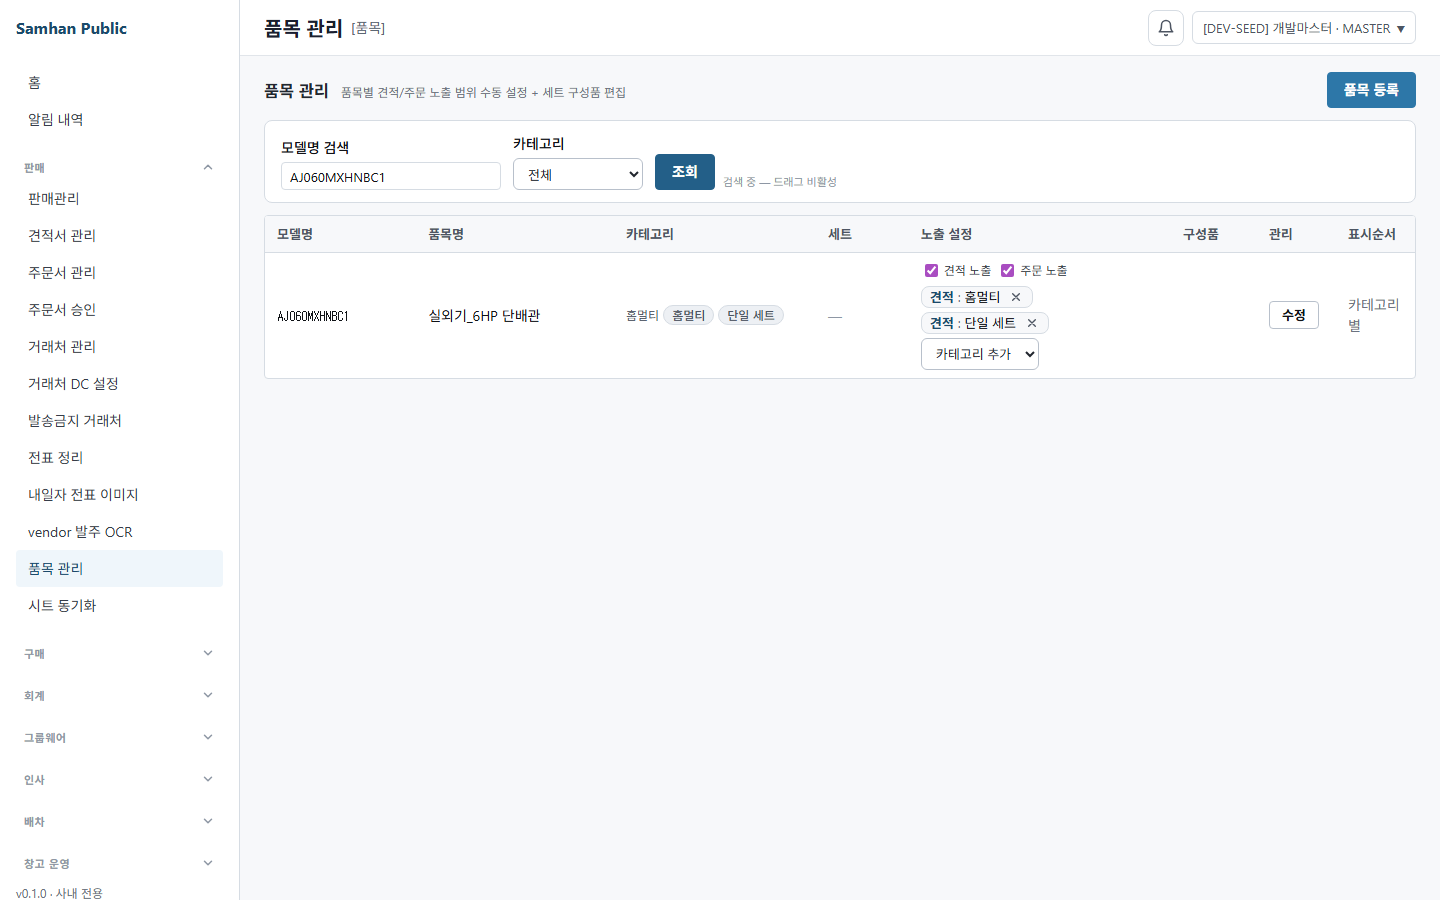
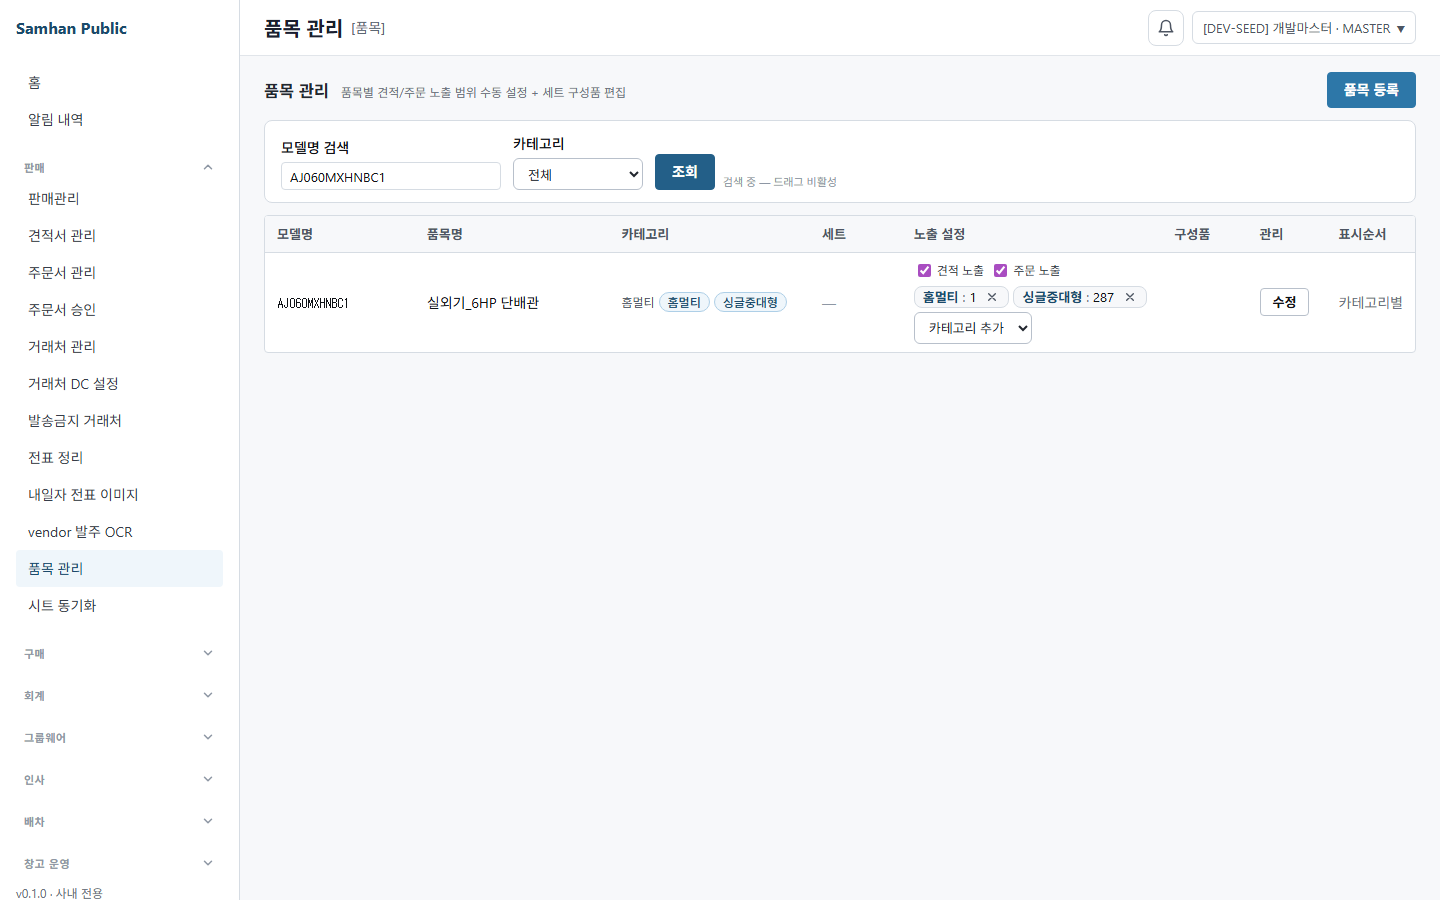
docs(product): #494 dev-report + ROADMAP + overview + 싱글중대형 실QA 재캡처
- dev-report 신규(M:N 모델 product_estimate_exposure V18·BE/FE·싱글중대형 라벨·dual 리뷰·실QA·D-PCE-03~06·D-LABEL-01)
- ROADMAP #494 항목 + overview nav-badge #494 갱신
- docs/qa/product-multi-category-exposure 3컷 싱글중대형 라벨 실서버 재캡처(홈멀티+싱글중대형 칩, dev_master, mock OFF)

diff --git a/docs/samhan-public-overview.html b/docs/samhan-public-overview.html
@@ -427,7 +427,8 @@ body {
     <a class="nav-link" href="#phases">진행 현황</a>
   </div>
   <div class="nav-right">
-    <span class="nav-badge">PR #480 · §7 전역 협업 에픽 완결 — 그룹웨어 결재(ApprovalLine): 결재 FE 신규(목록/상세)+수정완료(제목/내용)+결재유형 템플릿 빌더(동적 필드)+통합 문서 참조 첨부(출고/입고전표·분개장·세금계산서·거래명세서·거래처원장)+결재자 사원검색 칩+결재선 실명(개발책임자 — 다중 추가 입력은 캡슐(칩) 통일, 품목 표 제외) / page-code groupware.approvals / 라이브 QA가 SAMHAN_USER_SERVICE_URL 운영파손 단독 적발 / 슬라이스 0~4(입출고전표·회계·주문·견적·배차 #474~#478) 후 6번째 완결 · Opus 5-agent+Codex cross-check 리뷰 수렴. presence=후속</span>
+    <span class="nav-badge">PR #494 · 품목 다중 카테고리 노출 M:N — 한 단일 품목을 여러 견적 카테고리(홈멀티/싱글중대형/상업멀티/구형)에 중복 노출 + 카테고리별 표시순서(product_estimate_exposure V18 단일원천, products.estimate_category/display_order deprecated) / desktop 다중칩(TagChip) UI / SINGLE_SET 사용자 라벨 "싱글중대형" 전역 통일(enum 식별자·시트 탭 매처·수식 보존) / Opus 5-agent+Codex 교차 리뷰 + 실서버 M:N 다중노출 실증·데스크톱 실QA. estimate-app 무변경</span>
+    <span class="nav-badge" hidden>PR #480 · §7 전역 협업 에픽 완결 — 그룹웨어 결재(ApprovalLine): 결재 FE 신규(목록/상세)+수정완료(제목/내용)+결재유형 템플릿 빌더(동적 필드)+통합 문서 참조 첨부(출고/입고전표·분개장·세금계산서·거래명세서·거래처원장)+결재자 사원검색 칩+결재선 실명(개발책임자 — 다중 추가 입력은 캡슐(칩) 통일, 품목 표 제외) / page-code groupware.approvals / 라이브 QA가 SAMHAN_USER_SERVICE_URL 운영파손 단독 적발 / 슬라이스 0~4(입출고전표·회계·주문·견적·배차 #474~#478) 후 6번째 완결 · Opus 5-agent+Codex cross-check 리뷰 수렴. presence=후속</span>
   </div>
 </nav>
 

diff --git a/docs/dev-reports/2026-06-16-product-multi-category-exposure.md b/docs/dev-reports/2026-06-16-product-multi-category-exposure.md
@@ -1,0 +1,67 @@
+# 품목 다중 카테고리 노출 (M:N) + 카테고리별 표시순서 — 에픽 #18 슬1 (PR #494)
+
+> 2026-06-16. 브랜치 `feat/product-multi-category-exposure`. 워크플로우 = Opus 4.8 계획/조기PR → Codex 개발 → Opus 5-agent → Codex 5-agent → PM 종합 → 머지([[temp-multimodel-workflow]]).
+> spec: `docs/superpowers/specs/2026-06-16-product-multi-category-exposure.md`.
+
+## 1. 목표
+
+한 단일 품목(판넬/리모컨/유연호스 등)을 여러 견적 카테고리(홈멀티/싱글중대형/상업멀티/구형)에 **중복 노출** + **카테고리별 독립 표시순서**(순서 변경 시 같은 카테고리 내 일괄 자동조정). 기존 `products.estimate_category`(단일 컬럼)·`display_order`(전역 단일)로는 1품목=1카테고리만 가능했던 한계 해소.
+
+## 2. 모델 — M:N 단일 원천
+
+**신규 `product_estimate_exposure`**(V18) = 품목 견적 노출의 단일 진실원.
+
+| 컬럼 | |
+|---|---|
+| id UUID PK / product_id FK / estimate_category VARCHAR(20) / display_order INTEGER | + BaseEntity 7 audit |
+| UNIQUE `(product_id, estimate_category) WHERE is_deleted=false` | 품목×카테고리 1행 |
+| INDEX `(estimate_category, display_order) WHERE is_deleted=false` | 카테고리별 정렬 |
+| CHECK `chk_pee_category` | enum 5값 |
+
+- **백필**: 기존 `products.estimate_category`→M:N 1행 멱등 이식(NOT EXISTS, `gen_random_uuid()`/pgcrypto).
+- `products.estimate_category`·`display_order` = **deprecated 보존**(읽지·쓰지 않음, 롤백 안전, dual-write 금지 — [[spec-sync-full-db-distribution-check]] 교훈). 후속 cleanup 마이그에서 drop 예정.
+- `usageScope` = 품목 레벨 유지. ESTIMATE/BOTH 일 때만 노출 의미. M:N 행 0 = 미노출.
+
+## 3. BE (product-service)
+
+- `ProductEstimateExposure` 엔티티(raw productId UUID, 양방향 컬렉션 회피 — cascade/lock 부작용 차단 [[self-invocation-transactional-bypass]]) + repository.
+- `findExposedCatalog`(theta-join) + `searchByUsageScope`(admin 리스트, native LEFT JOIN) **둘 다 M:N** — estimate_category 필터 + `e.display_order ASC NULLS LAST, model_code` 카테고리별 정렬. → SINGLE_PART(판넬/부품)도 여러 견적 카테고리 노출 가능.
+- `PATCH /usage`: `UpdateProductUsageRequest.estimateCategories: List` replace(비-견적 scope→전체 soft-delete / 미포함→soft-delete / 신규→maxOrder+1). `markUsageManual(usageScope)`(exposure 동기화는 서비스).
+- `ProductSheetSyncService`: exposure **additive upsert**(삭제 절대 안 함) + `usageScopeManual` skip + **명시 save**(syncTab self-invocation 트랜잭션 부재 detached flush 보장). `products.estimate_category`/`display_order` 쓰기 중단.
+- `PUT /display-orders`: `DisplayOrderRequest.estimateCategory` 추가, 동일 카테고리 강제(D-PCE-02 축 교체) + 요청 순서대로 1..N 재번호(exposure 행) + **대상 카테고리 전체 활성 노출 미포함 시 400**(부분 재번호 붕괴 방지).
+- soft-deleted product 의 exposure 동반 soft-delete + `maxDisplayOrder` 활성 product 한정.
+- `ProductCatalogResponse.estimateCategories[{category,displayOrder}]` + deprecated 단일 파생.
+- `EstimateCatalogInternalController.products` M:N 직접 조회 → **estimate-app 무변경**(카테고리별 별도 HTTP 자동 수용). `/components`(세트 전개)는 부모 productCategory 조회 유지 — 견적 노출과 직교(구성품 노출 무관 포함).
+
+## 4. FE (desktop ProductCatalogPage)
+
+- ToggleCell: 단일 select → **design-system TagChip 다중 칩**(label=카테고리명, value=카테고리별 순서) + '카테고리 추가' Select([[chip-ui-multi-input]]). PATCH `estimateCategories` 배열. all-selected 시 add-Select 숨김.
+- `handleSaveOrder`: order 항목에 `estimateCategory`(committedCategory) — 카테고리별 1..N(전 페이지 수집).
+- 카테고리 컬럼 다중 Badge(`brand` — productCategory 평문과 구분), 표시순서 컬럼 = 선택 카테고리 exposure 순서(미선택 시 "카테고리별" title 툴팁).
+- `ProductCatalogPageModel.ts`(+vitest) 순수 헬퍼(normalizeEstimateCategoryExposures/estimateCategoryValues/exposureDisplayOrder/buildCategoryDisplayOrderInputs). estimateCategories=[] 가 legacy 로 fallback 하던 버그 수정.
+- mock: estimateCategories 다중노출 fixture + usage 배열 replace + display-orders estimateCategory 검증. 🪤 **slip 라인 BUNDLE usageScope=BOTH 회귀가드 보존**(bundle-set-options, 슬립 검색 별도 데이터셋).
+
+## 5. 카테고리 라벨 정정 — SINGLE_SET = "싱글중대형" (개발책임자)
+
+- SINGLE_SET 사용자 노출 라벨 "싱글세트/싱글 세트/단일 세트" → **"싱글중대형"** 전역 통일(27파일/97 spot: design-system·desktop·order-app·mobile·estimate-app UI·인쇄). 사유 = 세트 아닌 단일 품목도 포함.
+- **enum 식별자 SINGLE_SET + 시트 탭 매처("싱글 세트", `_단가인상`, range-map, code.js 수식, legacy GAS SINGLE_NAME) 보존** — 변경 시 sync/단가계산 파손. 계약 가드(full-menu-contract·sp-07) + calc-fidelity 로 보존 검증. [[item-exposure-and-menu-5cat]].
+
+## 6. 워크플로우 / 리뷰 / QA
+
+- **Opus 5-agent**(BE/FE/Designer/DevOps/QA): BE P1(sync save 누락)·P2(create scope) fix, Designer P2(칩 접두 중복)·P3, DevOps P2(reorder IT 공백). FE 0 blocking. → Opus 직접 fix.
+- **Codex 5-agent 교차**: Opus fix 무회귀 확인 + reorder IT(비-@Transactional)·estimateCategories=[] fix·orphan exposure·display-orders 가드 + Designer P3·dead method. → Codex 직접 fix.
+- **실서버 QA**(게이트웨이 :8080 + product-service V18): AJ060MXHNBC1 단일품목 홈멀티+싱글중대형 2카테고리 동시 노출 실증(API) + 데스크톱 UI 다중칩 실캡처(`docs/qa/product-multi-category-exposure/`).
+- **검증**: product-service test green, partner-order test green, estimate-app calc-fidelity 77, FE typecheck/vitest, playwright 18/18(product-catalog 11 + 시트매처 계약가드).
+
+## 7. 결정 기록
+
+- **D-PCE-03**: 견적 노출 = M:N(`product_estimate_exposure`) 단일 원천. products.estimate_category/display_order deprecated.
+- **D-PCE-04**: sync exposure = additive only(삭제 금지) + usageScopeManual skip. 미노출 전환은 수동 PATCH /usage.
+- **D-PCE-05**: display-orders = 대상 카테고리 전체 활성 노출 포함 요청만(부분 1..N 붕괴 방지).
+- **D-PCE-06**: 세트 노출 + 구성품 미노출 → 구성품은 세트 전개 시 노출 무관 포함(/components usageScope 미필터, 의도). 미노출=단독 판매 여부만.
+- **D-LABEL-01**: SINGLE_SET 라벨 = "싱글중대형"(식별자·시트매처 보존, 라벨만).
+
+## 8. 후속
+
+- products.estimate_category/display_order cleanup 마이그(컬럼 drop) — 별도.
+- 멀티(홈멀티/상업멀티) 세트 단가 동적화(#19, 개발책임자 정책 대기).

diff --git a/ROADMAP.md b/ROADMAP.md
@@ -31,6 +31,7 @@
 
 ### 최신 진행 메모 (2026-06-11)
 
+- 품목 다중 카테고리 노출 M:N + 싱글중대형 라벨 (에픽 #18 슬1, PR #494): 견적 노출을 `products.estimate_category`(단일 컬럼) → **`product_estimate_exposure`(M:N, V18)** 단일 원천으로 전환 — 한 단일 품목(판넬/리모컨/유연호스 등)을 여러 견적 카테고리(홈멀티/싱글중대형/상업멀티/구형)에 **중복 노출** + 카테고리별 독립 표시순서. `findExposedCatalog`·`searchByUsageScope`(admin) **M:N JOIN**(SINGLE_PART 도 견적 카테고리 노출 가능), `PATCH /usage` `estimateCategories` replace, sync **additive upsert**(삭제 금지)+manual skip+명시 save(self-invocation flush), `PUT /display-orders` 카테고리별 1..N + 전체요청 가드(부분 붕괴 방지), soft-deleted product exposure 동반 정리, `ProductCatalogResponse.estimateCategories`(D-PCE-03~06). `products.estimate_category/display_order` deprecated 보존(dual-write 금지). estimate-app 무변경(카테고리별 별도 HTTP 자동 수용). desktop ToggleCell **다중 칩**(TagChip) + 카테고리별 드래그. **SINGLE_SET 사용자 라벨 "싱글중대형" 전역 통일**(세트 아닌 단일 품목도 포함 — enum 식별자·시트 탭 매처·수식 보존, 27파일/97 spot, D-LABEL-01). Opus 5-agent + Codex 교차 리뷰 수렴(reorder IT·orphan exposure·display-orders 가드) + 실서버 M:N 다중노출 실증(AJ060 홈멀티+싱글중대형)·데스크톱 다중칩 실QA. dev-report `docs/dev-reports/2026-06-16-product-multi-category-exposure.md`.
 - 좌측 메뉴 5대분류 재편 + 접기/펼치기 (PR #462): 좌측 메뉴를 **상단 고정 2(홈·알림 내역) + 7 그룹**(판매/구매/회계/그룹웨어/인사 + 배차(arologis)·창고 운영)으로 재편 + '홈' 최상단 신규('대시보드' 리라벨). **IA 재배치(이동·그룹핑·라벨)만** — 라우트·page-code·권한 로직 무변경, 그룹 헤더 노출 = 기성 `dynamicCanAccess`(SP-D1~D4) 단일 소스(자식 권한 1개라도 있으면 표시, 전무 시 완전 미렌더; D-M5C-01). 하위 메뉴 **접기/펼치기**(`SidebarCategory` 헤더 토글 일반화 — 기본 접힘·활성 라우트 그룹 자동 펼침·`localStorage['samhan.sidebar.group.<label>']` 영속·`role=heading`/`aria-expanded`/`role=group` 접근성, D-M5C-02). **단톡방 매핑 그룹웨어 단일화**(AdminLayout 중복 제거, 라우트/가드 유지, D-M5C-03). 배차 그룹 라벨 코드명 `arologis`→'배차'. **주문서 승인 보안 게이트**(fail-open 차단) — FE 라우트 PermissionGuard + partner-auth-service `PartnerApprovalsController` @RequirePermission(`sales.partner-order.list`, FE 사이드바 게이트와 동일 page-code) + `:shared:security` 의존·lockout 방지 `DynamicPermissionClientConfig` bean·enforcement IT(grant→!403/deny→403+counter/MASTER bypass/PARTNER deny, 실 HTTP 회귀, D-M5C-04). AROLOGIS 완료 배차 내역뷰는 별도 슬라이스 분리(D-M5C-05). 4-라운드 다모델 리뷰(Opus 5확정 + Codex 7확정 + Fable5 14확정 — Fable5 가 CI-RED 2·보안 1 적발) + Docker 실서버 QA 13컷(`docs/qa/menu-5category/`). desktop mock 468 pass·partner-auth IT 13/13. dev-report `docs/dev-reports/2026-06-11-desktop-menu-5category.md`.
 - 품목관리 고도화 (PR #461): 구글 시트를 **최초 시드 전용**으로 격하 — `ProductSheetSyncScheduler` cron + 부팅 sync 를 `samhan.product.sheet-sync.cron-enabled`(기본 false) 게이트로 비활성(표시순서 시트 재적재 소실 방지), 수동 비상 재적재 trigger 만 유지(D-PCE-04). 출처 컬럼·뱃지 제거. **세트 컬럼**(BUNDLE 뱃지 + componentCount, N+1 벌크 count) + **구성품 편집기**(GET·PUT `/products/{code}/components` replace-all — BUNDLE 아님 409·빈 배열/자기참조/미해소/세트-안-세트/중복 400, 해소 축 = modelCode-only expander 정합, soft-delete actor, PESSIMISTIC_WRITE 동시성, V15 `bundle_component.display_order`) + **표시 순서 직접 조정**(드래그 → PUT `/products/display-orders` 일괄, 견적/주문 노출 품목 한정·`estimateCategory` 검증 축 자동 재번호, D-PCE-02). **설정 실시간 SSE**(`ProductCatalogChangePublisher` afterCommit 통일 → `GET /products/catalog-realtime` 구독, usage/components/display-orders mutation 동시 시청자 실시간 갱신, D-PCE-05). **세트 재고 가드**(BUNDLE 라인 재고조회 제외 — SlipForm/주문상세, SlipDetail 은 전개 저장으로 불요; partner-order 상세 `#23` productType enrich = modelCode 일괄조회 fail-soft, D-PCE-06/07). api-gateway 라우트 3종 추가. 4-라운드 다모델 리뷰(사이클1 + Opus 16 + Fable5 + Codex 8) + Docker 실서버 QA 12컷. dev-report `docs/dev-reports/2026-06-11-product-catalog-enhance.md`.
 - 품목 노출 수동 토글 + 품목관리 화면 (요구사항1 PR-B, PR #460): `usage_scope_manual` 플래그(V14)로 시트 sync 가 수동 토글을 보존(soft-delete 보호 포함)하고, 시트 복귀 시 rowHash 캐시 evict 로 재분류를 보장. catalog 경로(`/api/v1/products`)에 q 검색 + usageScope **IN-확장**(PARTNER_ORDER→+BOTH) + 결정 페이징(ORDER BY displayOrder) — 주문서 PARTNER_ORDER 분기 실효화. desktop '품목 관리' 화면 신설(견적/주문 노출 토글, 시트자동·수동 뱃지). 메뉴명 '공급자 설정' 라벨은 #459 에서 확정.
